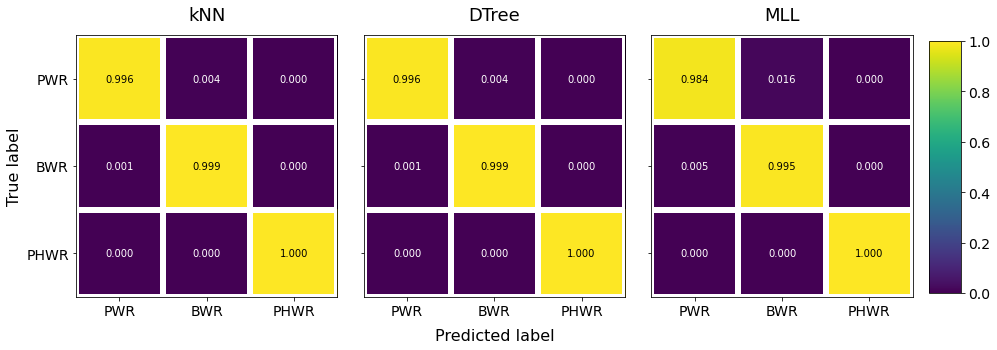
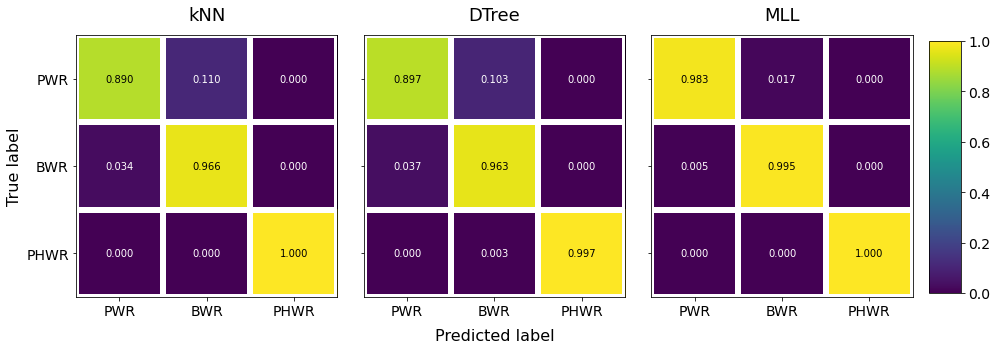
updates to mostly ch 3

diff --git a/document/chapters/exp1/evaluation.tex b/document/chapters/exp1/evaluation.tex
@@ -8,42 +8,6 @@
 
 \subsection{Random Error Impacts on Prediction}
 \label{sec:randerr}
-
-\begin{figure}[!ht]
-    \centering
-    \begin{subfigure}[b]{0.49\textwidth}
-        \centering
-        \includegraphics[width=\textwidth]{./chapters/exp1/randerr_compare_nuc29_BalAcc_rxtr.png}
-        \caption{Balanced accuracy of reactor type classification.}
-        \label{fig:randerrA}
-    \end{subfigure}
-    \hfill
-    \begin{subfigure}[b]{0.49\textwidth}
-        \centering
-        \includegraphics[width=\textwidth]{./chapters/exp1/randerr_compare_nuc29_MAPE_burn.png}
-        \caption{Negative \gls{MAPE} of burnup regression.}
-        \label{fig:randerrB}
-    \end{subfigure}
-    \vskip\baselineskip
-    \begin{subfigure}[b]{0.49\textwidth}
-        \centering
-        \includegraphics[width=\textwidth]{./chapters/exp1/randerr_compare_nuc29_MAPE_enri.png}
-        \caption{Negative \gls{MAPE} of \gls{U235} regression.}
-        \label{fig:randerrC}
-    \end{subfigure}
-    \hfill
-    \begin{subfigure}[b]{0.49\textwidth}
-        \centering
-        \includegraphics[width=\textwidth]{./chapters/exp1/randerr_compare_nuc29_MAPE_cool.png}
-        \caption{Negative \gls{MAPE} of time since irradiation regression.} 
-        \label{fig:randerrD}
-    \end{subfigure}
-    \caption{Prediction performance with respect to decreasing information
-             quality in the form of uniform/random error applied to the nuclide 
-             mass measurements in the training set.}
-    \label{fig:randerr}
-\end{figure}
-
 As previously introduced in Section \ref{sec:testerr}, the prediction
 performance is measured by evaluating the accuracy of the reactor type
 classification or the error of the regression cases (burnup, \gls{U235}
@@ -76,76 +40,212 @@ expected measurement errors of nuclide masses in a training database or in a
 test sample can be guaranteed to be better than ~2\%, the \gls{MLL} calculation
 is no longer the obvious preferred choice for reactor type prediction.
 
-Figure \ref{fig:randerrB} demonstrates the first regression performance plot.
-As mentioned, the \textit{x}-axis is negative \gls{MAPE} so that higher is
-always better.  The error bars reflect one standard deviation of the average
+Although the balanced accuracy score provides slightly better information about
+classification performance for an imbalanced data set (the training set is
+26.8\% \gls{PWR}, 71.6\% \gls{BWR}, and 1.5\% \gls{PHWR}), it still does not
+provide much detail about what is being misclassified. To probe this further,
+Figure \ref{fig:cm_nuc29} shows two sets of confusion matrices.  The diagonal
+squares are the fraction of true positives for each reactor type, where the
+predicted label (\textit{x}-axis) is equal to the true label (\textit{y}-axis).
+The off diagonal squares are the fraction of false positives for each reactor
+type, where the predicted label is something other than the true label. In
+addition to the numbers being included in the matrices, a colorbar provides
+perceptially uniform shading for these true positive and false positive
+fractions. 
+
+In Figure \ref{fig:cm_nuc29_01}, the three algorithms are presented for the 1\%
+random error case. In Figure \ref{fig:randerrA}, one can see these three data
+points on the plot clustered near the top showing almost-perfect performance.
+(A reminder that the true positive fractions in the confusion matrices do not
+map directly to the balanced accuracy score, which puts more weight on the
+underrepresented classes.) The confusion matrices give more dimension to this
+near-perfect reactor type classification performance. The majority of the
+misclassification is in \gls{PWR}s being classified as \gls{BWR}s: 0.4\% for
+\textit{k}-nearest neighbors and decision trees, and 1.6\% for \gls{MLL}
+calculations. Although, there are also some \gls{BWR}s that are misclassified
+as \gls{PWR}s: 0.1\% for \textit{k}-nearest neighbors and decision trees, and
+0.5\% for \gls{MLL} calculations. The \gls{PWR}/\gls{BWR} distinction is known
+to be a difficult problem\todo{find citation}, so the correct \gls{PHWR}
+classifications are not particularly notable for this discussion.
+
+Figure \ref{fig:cm_nuc29_10} shows confusion matrices for the three algorithms
+for the 10\% random error case. In Figure \ref{fig:randerrA}, one can see these
+three data points on the plot, where the \gls{MLL} point is near a balanced
+accuracy score of 1, and the scikit-learn algorithms both have score of around
+0.93. As with the 1\% error case, the majority of the misclassification is in
+\gls{PWR}s being classified as \gls{BWR}s: 11.0\% for \textit{k}-nearest
+neighbors, 10.3\% for decision trees, and 1.7\% for \gls{MLL} calculations.
+The \gls{BWR}s are being misclassified as \gls{PWR}s at the following
+percentages: 3.4\% for \textit{k}-nearest neighbors, 3.7\% for decision trees,
+and 0.5\% for \gls{MLL} calculations. Note how the performance of the \gls{MLL}
+calculations are nearly the same for both error levels, which is shown by the 
+\gls{MLL} line in Figure \ref{fig:randerrA}.
+
+Figure \ref{fig:randerrB} demonstrates the burnup prediction performance.  As
+mentioned, the \textit{x}-axis is negative \gls{MAPE} so that higher is always
+better.  The error bars reflect one standard deviation of the average
 percentage errors.  Again, the \gls{MLL} method is robust to training set error
 but performs slightly worse at low error values.  All three methods calculate
 burnup with a maximum error of 5\% at 20\% error in the training set.  While it
-is difficult to draw an acceptable baseline, this minimum performance level can
-serve as a benchmark for the work presented in Chapter \ref{ch:exp2}. 
+is difficult to draw a baseline, this minimum performance level can serve as a
+benchmark for the work presented in Chapter \ref{ch:exp2}. 
 
-Figure \ref{fig:randerrC}
+\begin{figure}[!hbt]
+    \centering
+    \begin{subfigure}[b]{0.49\textwidth}
+        \centering
+        \includegraphics[width=\textwidth]{./chapters/exp1/randerr_compare_nuc29_BalAcc_rxtr.png}
+        \caption{Balanced accuracy of reactor type classification with respect 
+                 to random error.}
+        \label{fig:randerrA}
+    \end{subfigure}
+    \hfill
+    \begin{subfigure}[b]{0.49\textwidth}
+        \centering
+        \includegraphics[width=\textwidth]{./chapters/exp1/randerr_compare_nuc29_MAPE_burn.png}
+        \caption{Negative \gls{MAPE} of burnup regression with respect to 
+                 random error.}
+        \label{fig:randerrB}
+    \end{subfigure}
+    \vskip\baselineskip
+    \begin{subfigure}[b]{0.49\textwidth}
+        \centering
+        \includegraphics[width=\textwidth]{./chapters/exp1/randerr_compare_nuc29_MAPE_enri.png}
+        \caption{Negative \gls{MAPE} of \gls{U235} enrichment regression with 
+                 respect to random error.}
+        \label{fig:randerrC}
+    \end{subfigure}
+    \hfill
+    \begin{subfigure}[b]{0.49\textwidth}
+        \centering
+        \includegraphics[width=\textwidth]{./chapters/exp1/randerr_compare_nuc29_MAPE_cool.png}
+        \caption{Negative \gls{MAPE} of time since irradiation regression with 
+                 respect to random error.} 
+        \label{fig:randerrD}
+    \end{subfigure}
+    \caption{Prediction performance of reactor type, burnup, enrichment, and 
+             time since irradiation with respect to decreasing information
+             quality in the form of uniform/random error applied to the nuclide 
+             mass measurements in the training set.}
+    \label{fig:randerr}
+\end{figure}
 
-is about 6\%. The error bars reflect one standard deviation of the 
-average percentage errors.
-
-the maximum error of \textit{k}-nearest neighbors reaches nearly 
-30\%, but the other two are under 10\% error. The error bars 
-reflect one standard deviation of the average percentage errors.
-
-
-\begin{figure}[!ht]
+\begin{figure}[!htb]
     \centering
     \begin{subfigure}[b]{\textwidth}
         \centering
         \includegraphics[width=\textwidth]{./chapters/exp1/confusion_matrix_nuc29_err01.png}
-        \caption[]{1\% error}
-        %\label{fig:}
+        \caption{Confusion matrices for 1\% error for each algorithm.}
+        \label{fig:cm_nuc29_01}
     \end{subfigure}
     \vskip\baselineskip
     \begin{subfigure}[b]{\textwidth}
         \centering
         \includegraphics[width=\textwidth]{./chapters/exp1/confusion_matrix_nuc29_err10.png}
-        \caption[]{10\% error}
-        %\label{fig:}
+        \caption{Confusion matrices for 10\% error for each algorithm.}
+        \label{fig:cm_nuc29_10}
     \end{subfigure}
-    \caption[]{Confusion matrices for reactor type prediction, two different error injection levels.}
+    \caption{Confusion matrices for reactor type prediction for each algorithm 
+             at two training set error levels: 1\% and 10\%.}
     \label{fig:cm_nuc29}
 \end{figure}
 
-\begin{figure}[!ht]
+Figure \ref{fig:randerrC} shows the trend of \gls{U235} enrichment prediction
+with increasing error in the nuclide mass training set.  The error bars reflect
+one standard deviation of the average percentage errors, and the behavior of
+the \gls{MLL} method in Figure \ref{fig:randerrB} versus the scikit-learn
+algorithms is the same here.  The maximum \gls{MAPE} is about 6\% at 20\%
+training set error. 
+
+Last, the time since irradiation prediction performance for the three
+algorithms with respect to increasing nuclide mass error is pictured in Figure
+\ref{fig:randerrD}.  The error bars reflect one standard deviation of the
+average percentage errors.  The behavior of \textit{k}-nearest neighbors is
+unique here versus the previous two regression categories; whereas the maximum
+prediction \gls{MAPE}s remain well under 10\% for both the decision tree and
+\gls{MLL} methods, the maximum error of \textit{k}-nearest neighbors reaches
+nearly 30\% at 20\% nuclide mass error. \todo[inline]{I'm not sure why this is
+the case, and have not found a way to figure this out yet. In previous
+iterations of the experiment, all methods performed worse on the cooling time.
+But now that is not the case and it's only kNN performing significantly worse} 
+
+\begin{figure}[!htb]
     \centering
     \begin{subfigure}[b]{0.49\textwidth}
         \centering
         \includegraphics[width=\textwidth]{./chapters/exp1/learncurve_nuc29_BalAcc_rxtr.png}
-        \caption[]{Caption.}
-        %\label{fig:}
+        \caption{Balanced accuracy of reactor type classification with respect 
+                 to training set size.}
+        \label{fig:learnsA}
     \end{subfigure}
     \hfill
     \begin{subfigure}[b]{0.49\textwidth}
         \centering
         \includegraphics[width=\textwidth]{./chapters/exp1/learncurve_nuc29_MAPE_burn.png}
-        \caption[]{Caption.}
-        %\label{fig:}
+        \caption{Negative \gls{MAPE} of burnup regression with respect to 
+                 to training set size.}
+        \label{fig:learnsB}
     \end{subfigure}
     \vskip\baselineskip
     \begin{subfigure}[b]{0.49\textwidth}
         \centering
         \includegraphics[width=\textwidth]{./chapters/exp1/learncurve_nuc29_MAPE_enri.png}
-        \caption[]{Caption.}
-        %\label{fig:}
+        \caption{Negative \gls{MAPE} of \gls{U235} enrichment regression with 
+                 respect to training set size.}
+        \label{fig:learnsC}
     \end{subfigure}
     \hfill
     \begin{subfigure}[b]{0.49\textwidth}
         \centering
         \includegraphics[width=\textwidth]{./chapters/exp1/learncurve_nuc29_MAPE_cool.png}
-        \caption[]{Caption.}
-        %\label{fig:}
+        \caption{Negative \gls{MAPE} of time since irradiation regression with 
+                 respect to training set size.}
+        \label{fig:learnsD}
     \end{subfigure}
-    \caption[]{Learning curves.}
+    \caption{Learning curves for reactor type, burnup, enrichment, and time 
+             since irradiation with respect to increasing fraction of the 
+             training set.}
     \label{fig:learns}
 \end{figure}
+
+Although a key takeaway from Figure \ref{fig:randerr} is that the \gls{MLL}
+calculations are the most robust to introduced error in the training set
+features for all four prediction categories, there is another aspect of the
+algorithm performance not shown in those plots: generalization. \Gls{MLL}
+outperforms the scikit-learn methods in part because the training set is so
+large. This is because it does not generalize to unseen data; it provides
+predictions based on finding the closest training set entry to the test sample.
+This is also true for the \textit{k}-nearest neighbor implementations where
+$k=1$ (burnup and cooling time, as seen in Table \ref{tbl:exp1hypparam}).
+
+One way to show that an algorithm is generalizing well in comparison to others
+is to view the shape of its learning curve (introduced in Section
+\ref{sec:complexity}): the prediction performance with respect to training set
+size.  Learning curves were constructed for all four prediction categories,
+demonstrated in Figure \ref{fig:learns}. As in Figure \ref{fig:randerr}, the
+\textit{y}-axis is always oriented so that lower is poorer performance and
+higher is better performance; also, the error bars reflect a 99\% confidence
+interval for Figure \ref{fig:learnsA}, and one standard deviation of the
+average percentage errors for Figures \ref{fig:learnsB}--\ref{fig:learnsD}.
+These learning curves represent the 1\% random error case in Figure
+\ref{fig:randerr}, so the \gls{MLL} learning curve will be below the
+scikit-learn algorithms for the reactor type, burnup, and enrichment
+predictions, and the \textit{k}-nearest neighbor learning curve will be below
+the \gls{MLL} and decision tree curves for time since irradiation. Thus, the
+scores/errors in Figure \ref{fig:randerr} are the data points at the 100\%
+training set level in Figure \ref{fig:learns}.
+
+\todo[inline]{would it be better to flip the x-axis so that performance
+degradation travels right as in the random error plots? Also, probably need to
+cut out some of the error bars for kNN in fourth plot to better see what is
+happening}
+
+Figure \ref{fig:learnsA} shows that the balanced accuracy of reactor type
+classification for the \gls{MLL} calculations decreases much more at lower
+training set size than for the scikit-learn algorithms.  This pattern holds
+true for the burnup \gls{MAPE} in Figure \ref{fig:learnsB} and the enrichment
+\gls{MAPE} in Figure \ref{fig:learnsC}, although the standard deviation is
+large enough for the \gls{MLL} values that one cannot declare this with .
 
 \begin{figure}[!ht]
   \centering

diff --git a/document/chapters/exp1/training.tex b/document/chapters/exp1/training.tex
@@ -162,7 +162,9 @@ of the burnup and cooling time parameters, and shows the lack of even
 distribution of the enrichment parameter through a combination of scatter plots
 and histograms.  Note that there are many more \gls{BWR}s present in the
 histograms because of the multiple moderator densities simulated (see Table
-\ref{tbl:rxtrparam})
+\ref{tbl:rxtrparam}). The number of \gls{PWR}, \gls{BWR}, and \gls{PHWR}
+entries in the training set is 120960 (26.8\%), 322560 (71.6\%), and 6720
+(1.5\%), respectively.
 
 \subsection{Training Set Features}
 \label{sec:snffeats}
@@ -187,10 +189,16 @@ is described in more detail in Section \ref{sec:sfcompo}.
 
 \begin{table}[!htb]
   \centering
-  \includegraphics[width=\linewidth]{./chapters/exp1/nucmass_feats.png}
+  \begin{tabular}{@{}|l|l|l|l|l|l|l|l|@{}}
+    \toprule
+    \textbf{Am241}&Am242m        &\textbf{Am243}&Cm242&\textbf{Cm244}&\textbf{Cs134}&\textbf{Cs137}&\textbf{Eu154} \\ \midrule
+    Nd143         &Nd144         &Nd145         &Nd146&Nd148         &Nd150         &\textbf{Np237}&\textbf{Pu238} \\ \midrule
+    \textbf{Pu239}&\textbf{Pu240}&Pu241         &Pu242&Sm147         &Sm149         &Sm150         &Sm151          \\ \midrule
+    Sm152         &\textbf{U234} &\textbf{U235} &U236 &U238          &              &              &               \\ \bottomrule
+  \end{tabular}
   \caption{Set of features saved for the first experiment, nuclide masses 
            measured in $grams$. The bold nuclide masses overlap with the 
-           nuclides in \ref{tbl:nucacts}.}
+           nuclides in Table \ref{tbl:nucacts}.}
   \label{tbl:nucmass}
 \end{table}
 

diff --git a/document/chapters/litrev/errs.tex b/document/chapters/litrev/errs.tex
@@ -19,10 +19,10 @@ model emerges from a black box, there are ways to evaluate the generalization
 (i.e., prediction) capability of it.  This is done by removing a small portion
 of the database for use as a testing set.  The rest of the data set is known as
 the training set and is used to train a model. After training, the test set is
-used to calculate the model's generalization error.  The generalization error
+used to calculate the model's error to unseen test samples.  This error
 is typically referred to as the \textit{testing error}, as it is measuring the
 ability of the model to predict future cases that were not introduced in the
-training phase.  
+training phase. 
 
 In addition to evaluating a single learned model, it is beneficial to compare
 models. Moreover, there are potential degeneracies in the solution space. This
@@ -43,7 +43,7 @@ classification task:
 \begin{itemize}
   \item Accuracy metrics
   \item Confusion matrices 
-  \item Reciever operating characteristic curves
+  \item \Gls{ROC} curves
 \end{itemize}
 
 \begin{equation}

diff --git a/document/chapters/exp2/training.tex b/document/chapters/exp2/training.tex
@@ -13,10 +13,16 @@ calculate gamma spectra from these values.
 
 \begin{table}[!htb]
   \centering
-  \includegraphics[width=\linewidth]{./chapters/exp2/nucacts_feats.png}
+  \begin{tabular}{@{}|l|l|l|l|l|l|l|l|@{}}
+    \toprule
+    Ac227&\textbf{Am241}&\textbf{Am243}&Ba133&Cf249          & Cf252          & Cm243          & \textbf{Cm244} \\ \midrule
+    Cm245&\textbf{Cs134}&\textbf{Cs137}&Eu152&\textbf{Eu154} & Ho166m         & Kr85           & Nb94           \\ \midrule
+    Np236&\textbf{Np237}&Pa231         &Pm146&Pu236          & \textbf{Pu238} & \textbf{Pu239} & \textbf{Pu240} \\ \midrule
+    Ra226&Sb125         &Th228         &Th229&U232           & U233           & \textbf{U234}  & \textbf{U235}  \\ \bottomrule
+  \end{tabular}
   \caption{Set of features saved for the second experiment, nuclide activities
            measured in $Curies$. The bold nuclide activities overlap with the 
-           nuclides in \ref{tbl:nucmass}.}
+           nuclides in Table \ref{tbl:nucmass}.}
   \label{tbl:nucacts}
 \end{table}
 

diff --git a/document/includes/preamble.tex b/document/includes/preamble.tex
@@ -227,4 +227,4 @@
 \usepackage{tabularx}
 \setcounter{secnumdepth}{3}
 \setcounter{tocdepth}{3}
-\usepackage{placeins}
+\usepackage[section]{placeins}
